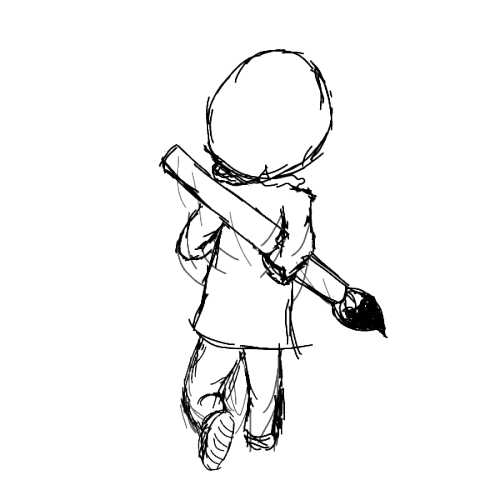
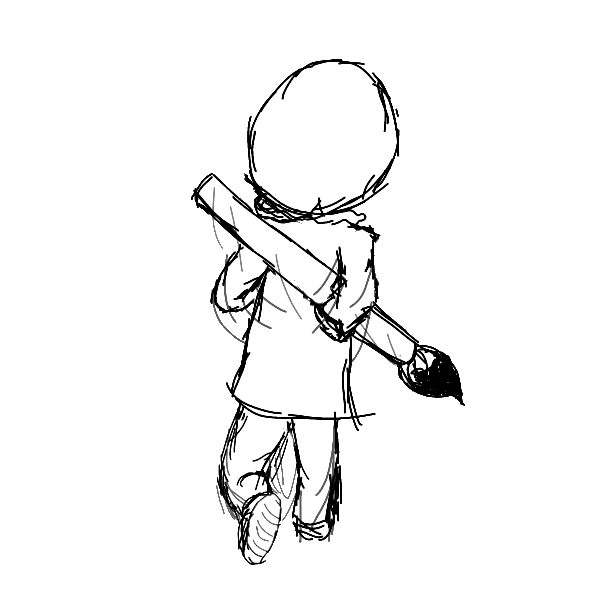
pattern update

diff --git a/main.py b/main.py
@@ -14,7 +14,7 @@ class obj:
         self.sizex = 80
         self.sizey = 80
         self.lane_x = [335, 355, 375]
-        self.y = 25
+        self.y = -50
         self.color = (70, 150, 255)
         self.speed = speed
         self.x2 = self.lane_x[self.lane]
@@ -42,14 +42,31 @@ class green_poison(obj):
         super().__init__(speed,obj_start_point)
     def draw(self):
         x = self.x2
-        pygame.display.set_caption("Goo Mai Ru")
         image = pygame.image.load('dmg1.png')
         image = pygame.transform.scale(image,(self.sizex,self.sizey))
         screen.blit(image,(x,self.y))
 
+class paintb(obj):
+    def __init__(self,speed,obj_start_point):
+        super().__init__(speed,obj_start_point)
+    def draw(self):
+        x = self.x2
+        image = pygame.image.load('sc1.png')
+        image = pygame.transform.scale(image,(self.sizex,self.sizey))
+        screen.blit(image,(x,self.y))
 
-#Obj 1(ตัวเทส)
-obj1 = green_poison(1,random.randint(0,2))
+
+
+class bg :
+    def __init__(self):
+        self.x = 800
+        self.y = 800
+    def draw(self) :
+        image = pygame.image.load('rd1.png')
+        image = pygame.transform.scale(image,(self.x,self.y))
+        screen.blit(image,(0,0))
+
+blg = bg()
 
 class Player:
     def __init__(self):
@@ -77,7 +94,6 @@ class Player:
 
     def draw(self,ct):
         x = self.lane_x[self.lane]
-        pygame.display.set_caption("Goo Mai Ru")
         if ct == 1 :
             image = pygame.image.load('rr1.png')
         elif ct == 2 :
@@ -85,10 +101,67 @@ class Player:
         image = pygame.transform.scale(image,(self.sizex,self.sizey))
         screen.blit(image,(x,self.y))
 
+class pattern :
+    def __init__(self,gspeed):
+        self.dmo = {} #damage object dict
+        self.sco = {}
+        self.sp = gspeed
+        self.dpt = [] #damage object pattern
+        self.ds = [] #damage objet show out time
+        self.spt = []
+        self.ss = []
+        self.timer = 0
+        self.lng = 0
+    def pat1(self) :
+        self.dpt = [1,0,2,0,2,0]
+        self.ds = [1,2,4,5,6,7]
+        self.lng = len(self.dpt) if len(self.dpt) >= len(self.spt) else len(self.spt)
+        for i in range(len(self.dpt)):
+            self.dmo[i] = green_poison(self.sp,self.dpt[i])
+        self.spt = [0,2,0,2,0,2]
+        self.ss = [0.3,1,4,5,6,7]
+        for i in range(len(self.spt)):
+            self.sco[i] = paintb(self.sp,self.spt[i])
+    def pat2(self) :
+        self.dpt = [1,1,1,1,1]
+        self.ds = [0,3,6,9,12]
+        self.lng = len(self.dpt) if len(self.dpt) >= len(self.spt) else len(self.spt)
+        for i in range(len(self.dpt)):
+            self.dmo[i] = green_poison(self.sp,self.dpt[i])
+        self.spt = [1,1,1,1]
+        self.ss = [1.5,4.5,7.5,10.5]
+        for i in range(len(self.spt)):
+            self.sco[i] = paintb(self.sp,self.spt[i])
+    def draw(self):
+        for tm in range(self.lng):
+            if tm in self.dmo.keys():
+                if not self.dmo[tm].y >= 570 and self.timer*self.sp >= self.ds[tm]:
+                        self.dmo[tm].draw()
+                        self.dmo[tm].move()
+                elif self.dmo[tm].y >= 570:
+                    del self.dmo[tm]
+            
+            if tm in self.sco.keys():
+                if not self.sco[tm].y >= 570 and self.timer*self.sp >= self.ss[tm]:
+                        self.sco[tm].draw()
+                        self.sco[tm].move()
+                elif self.sco[tm].y >= 570:
+                    del self.sco[tm]
+
+pattern_check = 0
 
 player = Player()
 
+pytime = pygame.event.custom_type()
+pygame.time.set_timer(pytime,10)
+pttick = 0
+realtimer = 120
+btime = realtimer
+
+ti_font = pygame.font.Font(None, 40)
+
 running = True
+Ti = 0
 timer = 0
 coun = 1
 while running:
@@ -98,14 +171,37 @@ while running:
 
         player.handle_event(event)
 
+        if event.type == pytime:
+            realtimer -= 0.01
+
     screen.fill((240, 240, 240))
-    
+
+    blg.draw()
+
+    ti_te = ti_font.render(
+        "Time left = "+str(int(realtimer//1)), True, (0, 0, 0)
+    )
+    ti_te_rect = ti_te.get_rect(center=(50, 50))
+    screen.blit(ti_te, (50,50))
+
+    if pattern_check == 0:
+        pt = pattern(1.2)
+        rane = random.randint(1,2)
+        if rane == 1 :
+            pt.pat1()
+        elif rane == 2 :
+            pt.pat2()
+        pattern_check = 1
+    elif pattern_check == 1 :
+        pt.draw()
+        if btime-realtimer >= 0.06 :
+            pt.timer += 0.1
+            btime = realtimer
+        if pt.dmo[pt.lng-1].y >= 570:
+            pattern_check = 0
+
     player.draw(coun)
-    #Don't forget to remove
-    if not obj1.y >= 570 :
-        obj1.draw()
-        obj1.move()
-    pygame.display.flip()
+    
     clock.tick(60)
     if timer <= 8:
         timer +=1
@@ -115,5 +211,6 @@ while running:
             coun = 2
         else :
             coun = 1
+    pygame.display.flip()
 
 pygame.quit()
